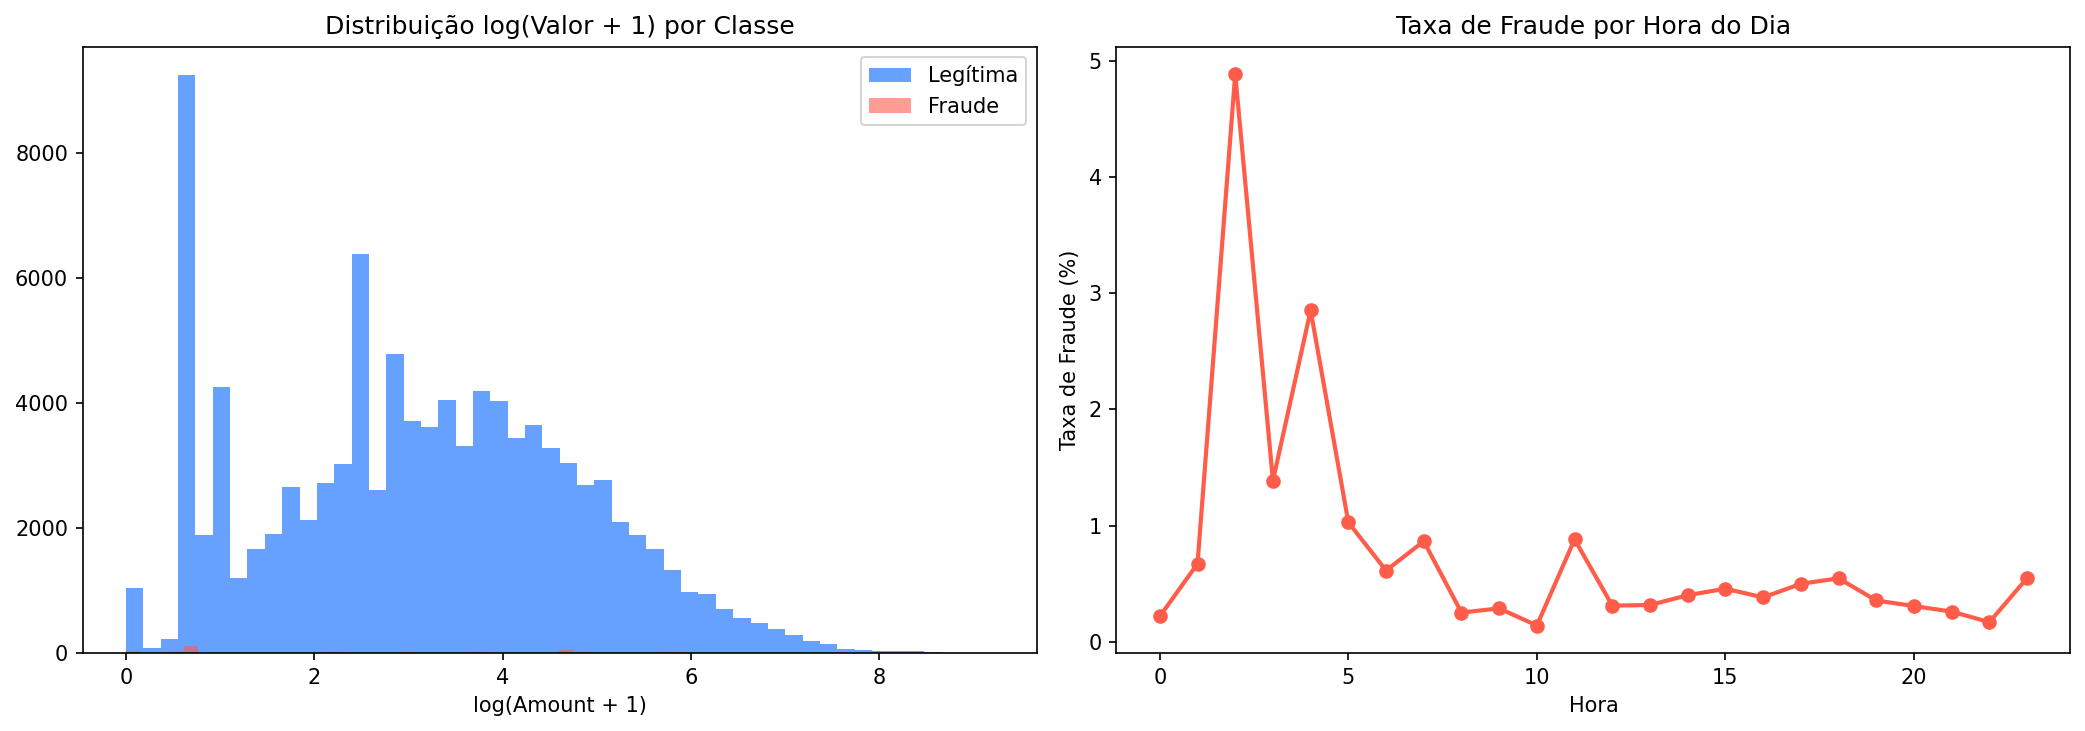
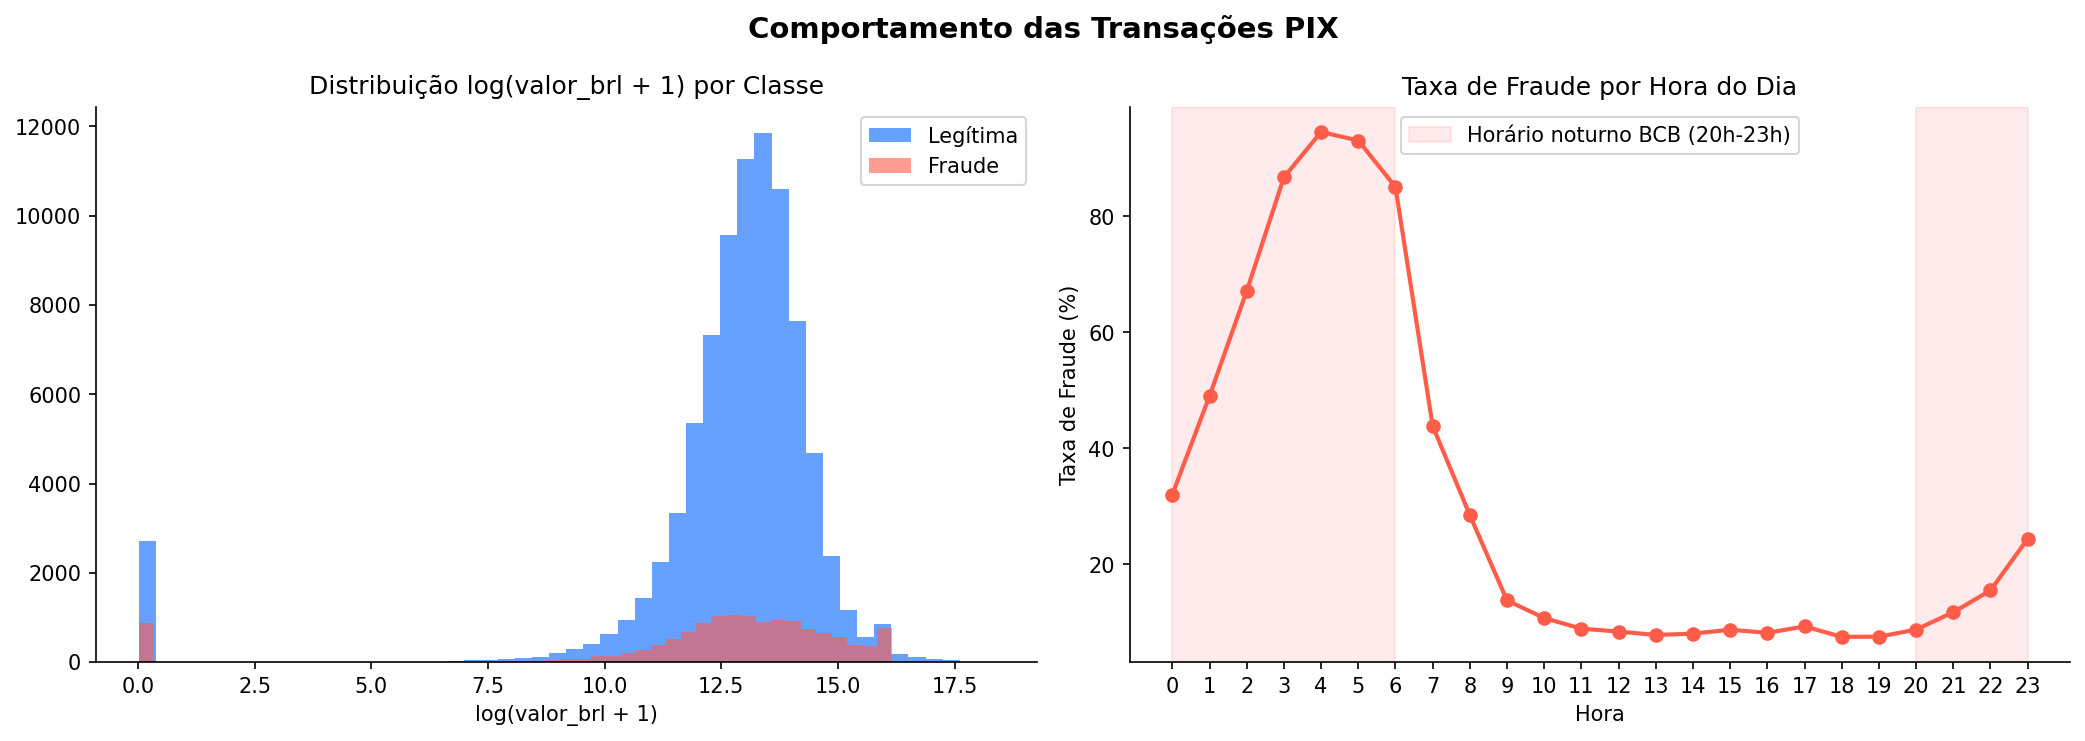
Bugfix + Readme

diff --git a/README.md b/README.md
@@ -84,19 +84,49 @@ This project uses **[PIX Fraud BR](https://huggingface.co/datasets/andremessina/
 ---
 
 ## Key Results
+**Pipeline run (2026-06-15)**
 
-> Results will be populated after running the notebooks end-to-end.
+- **Status:** Partial — dependencies installed and dataset downloaded; notebook execution failed at several steps (details below).
+- **Succeeded:** `pip install -r requirements.txt` completed; `python download_dataset.py` saved dataset to `data/raw/creditcard.csv`.
+- **Failures / blocking issues:**
+  - `01_eda.ipynb`: missing Python package `datasets` (ModuleNotFoundError).
+  - `02_feature_engineering.ipynb`: parquet engine missing (`pyarrow` or `fastparquet`) required to read/write Parquet.
+  - `03_db2_ingestion.ipynb`: `ibm_db` failed to load (DLL import error) — IBM Data Server Driver required on Windows.
+  - `04_autoai_experiment.ipynb`: missing `config/credentials.json` (copy `config/credentials_template.json` and fill IBM Cloud credentials).
 
-| Metric | Value |
-|---|---|
-| ROC-AUC | — |
-| F1 Score (fraud class) | — |
-| Precision | — |
-| Recall | — |
+- **Next steps to complete an end-to-end run:**
+  1. Activate the project's virtual environment (PowerShell):
+
+    ```powershell
+    .\.venv\Scripts\Activate.ps1
+    ```
+
+  2. Install missing packages:
+
+    ```powershell
+    pip install datasets pyarrow fastparquet
+    # On Windows: install IBM Data Server Driver per README note, then reinstall ibm_db
+    ```
+
+  3. Create your credentials file from the template and add IBM Cloud service credentials:
+
+    ```powershell
+    copy config\credentials_template.json config\credentials.json
+    # Edit config\credentials.json with your IBM Cloud credentials
+    ```
+
+  4. Re-run the notebooks (example using nbconvert):
+
+    ```powershell
+    python -m nbconvert --to notebook --execute notebooks/01_eda.ipynb --output executed_notebooks/01_eda.ipynb
+    # Repeat for notebooks 02 -> 05
+    ```
+
+- **Metrics:** Not available — pipeline incomplete due to the failures above.
 
 ### SHAP Feature Importance
 
-> *(Screenshot from notebook 05 — generated after running)*
+> *(Screenshot from notebook 05 — generated after a successful run)*
 
 ---
 